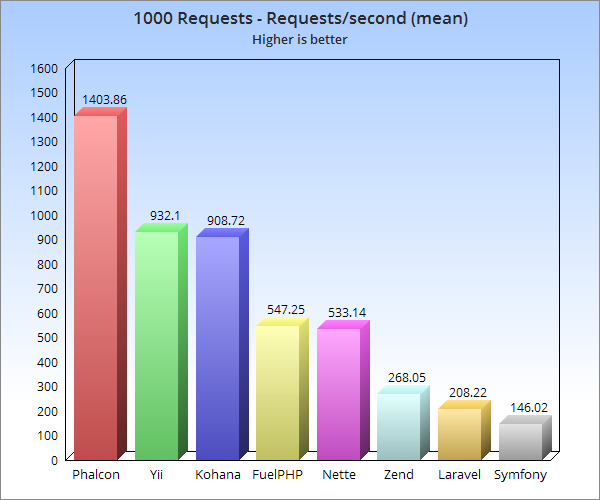
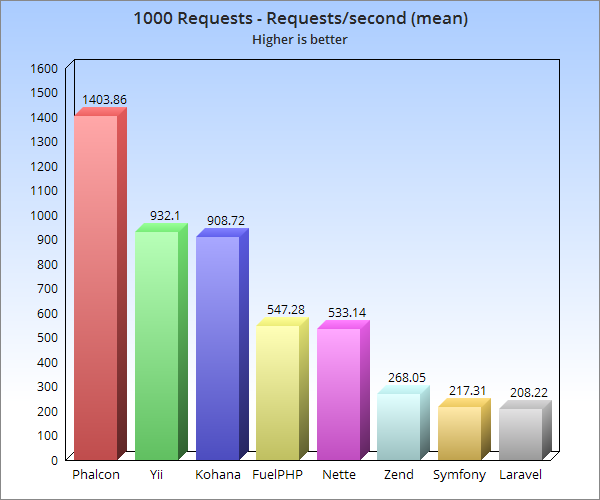
Rerun symfony results based on suggestion from @msvrtan

diff --git a/data/posts/2017-04-12-benchmarking-phalcon.md b/data/posts/2017-04-12-benchmarking-phalcon.md
@@ -189,11 +189,6 @@ Hello World!
 composer create-project symfony/framework-standard-edition symfony
 ```
 
-**symfony/web/app.php**
-```php
-$kernel = new AppKernel('prod', true);
-```
-
 **symfony/app/Resources/views/base.html.twig**
 ```html
 Hello World
@@ -513,37 +508,37 @@ Server Software:        Apache/2.4.18
 Server Hostname:        10.4.6.123
 Server Port:            80
 
-Document Path:          /symfony/web/
+Document Path:          /full/symfony/web/
 Document Length:        13 bytes
 
 Concurrency Level:      5
-Time taken for tests:   6.848 seconds
+Time taken for tests:   4.602 seconds
 Complete requests:      1000
 Failed requests:        0
 Total transferred:      252000 bytes
 HTML transferred:       13000 bytes
-Requests per second:    146.02 [#/sec] (mean)
-Time per request:       34.241 [ms] (mean)
-Time per request:       6.848 [ms] (mean, across all concurrent requests)
-Transfer rate:          35.94 [Kbytes/sec] received
+Requests per second:    217.31 [#/sec] (mean)
+Time per request:       23.008 [ms] (mean)
+Time per request:       4.602 [ms] (mean, across all concurrent requests)
+Transfer rate:          53.48 [Kbytes/sec] received
 
 Connection Times (ms)
               min  mean[+/-sd] median   max
-Connect:        0    0   0.3      0       3
-Processing:     6   34  10.5     33      91
-Waiting:        6   17  12.3     12      90
-Total:          6   34  10.6     34      91
+Connect:        0    0   0.4      0       4
+Processing:     4   23  21.3     21     277
+Waiting:        3   15  20.2      9     276
+Total:          4   23  21.3     22     277
 
 Percentage of the requests served within a certain time (ms)
-  50%     34
-  66%     37
-  75%     40
-  80%     42
-  90%     48
-  95%     52
-  98%     59
-  99%     62
- 100%     91 (longest request)
+  50%     22
+  66%     27
+  75%     30
+  80%     32
+  90%     38
+  95%     46
+  98%     55
+  99%     72
+ 100%    277 (longest request)
 ```
 
 #### Yii
@@ -637,3 +632,7 @@ Percentage of the requests served within a certain time (ms)
   99%     76
  100%    101 (longest request)
 ```
+
+### Revisions
+2017-04-13 18:22
+Symfony: changed `$kernel = new AppKernel('prod', false);` and rerun the results. Kudos (@msvrtan).
